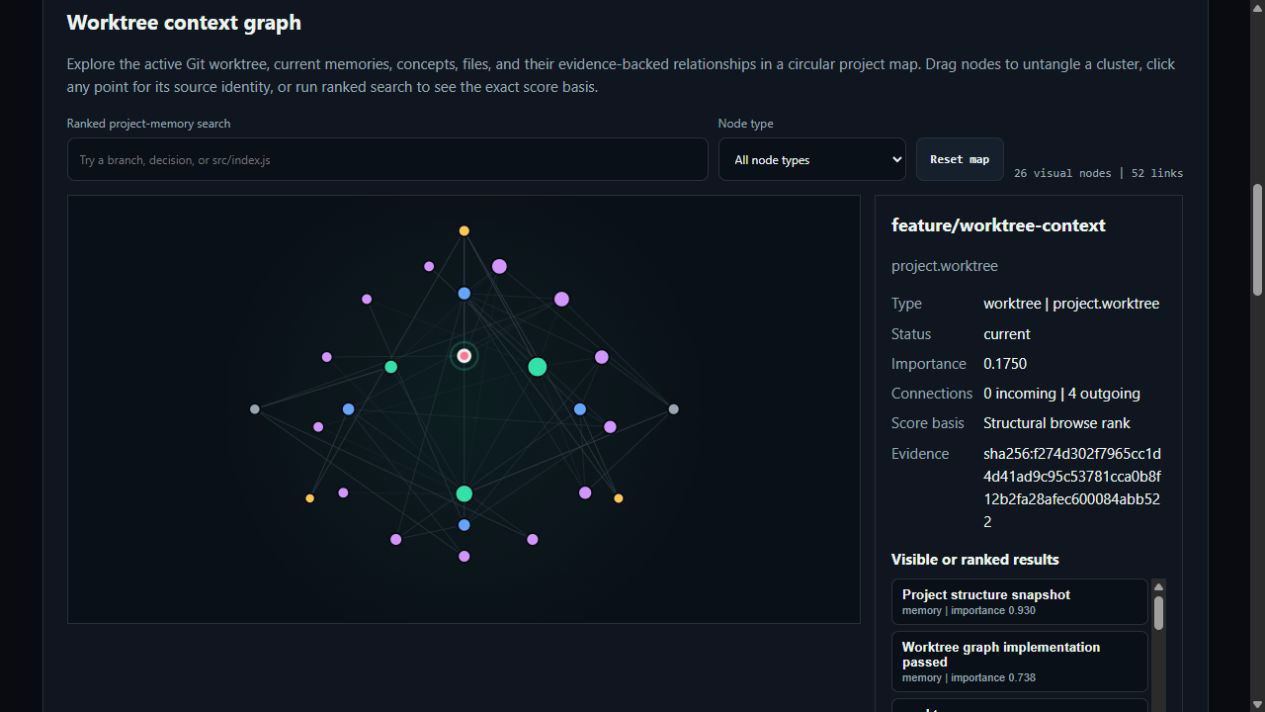
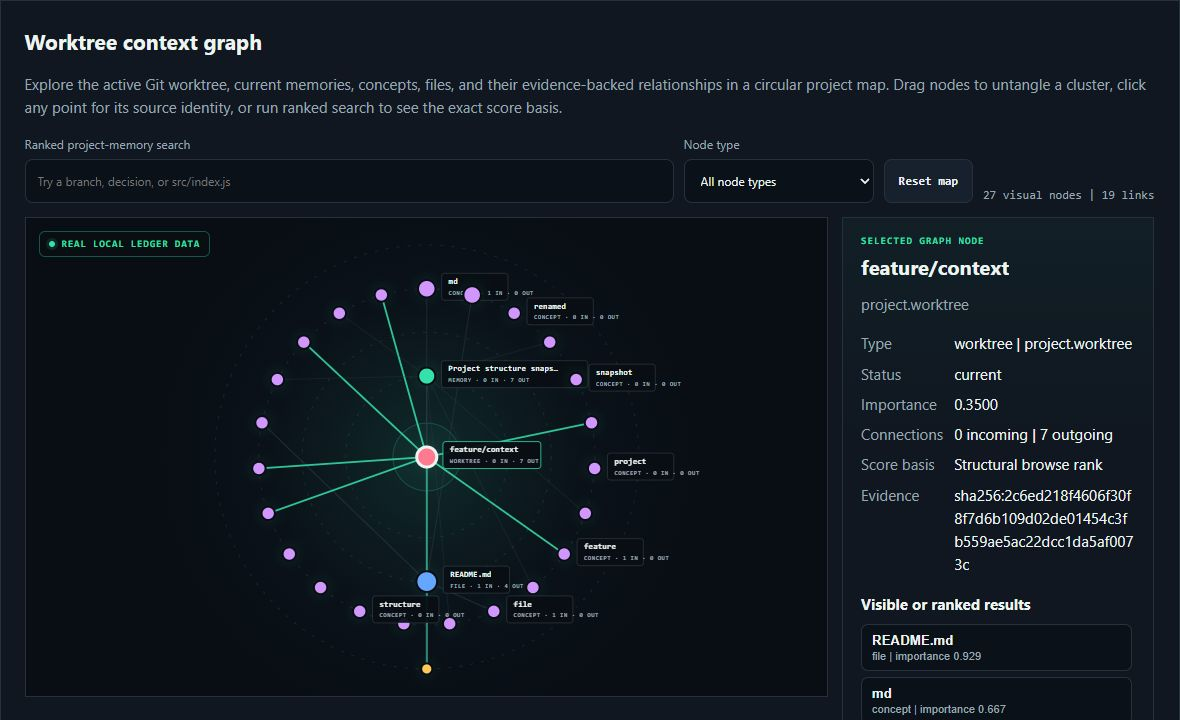
Fix/dashboard graph entry 20260821 (#140)
* fix: open dashboard at interactive graph

* feat: visualize real memory as a circular graph

diff --git a/src/dashboard.js b/src/dashboard.js
@@ -321,10 +321,10 @@ li:first-child{border-top:0}li strong{min-width:0;overflow-wrap:anywhere}li span
 .pager{display:flex;align-items:center;justify-content:flex-end;gap:10px;margin-top:16px}.pager button{min-width:92px;min-height:42px;padding:8px 13px;border:1px solid var(--line);border-radius:8px;color:var(--text);background:#17212d;font:700 13px/1 system-ui,sans-serif;cursor:pointer}.pager button:hover:not(:disabled){border-color:var(--mint);color:var(--mint)}.pager button:focus-visible{outline:2px solid var(--mint);outline-offset:2px}.pager button:disabled{cursor:not-allowed;opacity:.45}.pager output{min-width:92px;color:var(--muted);font:700 12px/1.2 ui-monospace,monospace;text-align:center}
 .empty{margin:0}.warning{color:var(--warn)}[hidden]{display:none!important}
 .project-nav{display:flex;gap:8px;overflow-x:auto;padding:0 0 16px;scrollbar-width:thin}.project-nav a{flex:0 0 auto;min-width:180px;padding:12px 14px;border:1px solid var(--line);border-radius:10px;color:var(--text);text-decoration:none;background:var(--panel)}.project-nav a[aria-current="page"]{border-color:var(--mint)}.project-nav small{display:block;color:var(--muted);font:11px/1.3 ui-monospace,monospace;margin-top:4px}.source-card{display:grid;grid-template-columns:repeat(2,minmax(0,1fr));gap:10px 22px;margin-top:18px;padding:16px;border:1px solid var(--line);background:var(--panel)}.source-card p{margin:0;min-width:0}.source-card strong{display:block;color:var(--text);font-size:12px}.source-card code{overflow-wrap:anywhere}.live-state,.snapshot-state{display:inline-flex;align-items:center;gap:8px;color:var(--mint)}.live-state span{width:9px;height:9px;border-radius:50%;background:var(--mint);box-shadow:0 0 0 4px rgb(53 224 170 / 14%)}
-.graph-toolbar{display:grid;grid-template-columns:minmax(220px,1fr) 190px auto auto;gap:10px;align-items:end;margin-bottom:14px}.graph-toolbar label{display:grid;gap:6px;color:var(--muted);font-size:12px}.graph-toolbar input,.graph-toolbar select{width:100%;min-height:44px;border:1px solid var(--line);border-radius:8px;background:#0b1118;color:var(--text);padding:9px 12px;font:inherit}.graph-toolbar input:focus-visible,.graph-toolbar select:focus-visible{outline:2px solid var(--mint);outline-offset:2px}.graph-reset{min-height:44px;padding:9px 14px;border:1px solid var(--line);border-radius:8px;background:#17212d;color:var(--text);font:700 12px/1 ui-monospace,monospace;cursor:pointer}.graph-reset:hover,.graph-reset:focus-visible{border-color:var(--mint);color:var(--mint);outline:none}.graph-summary{color:var(--muted);font:12px/1.35 ui-monospace,monospace}.graph-shell{display:grid;grid-template-columns:minmax(0,1.8fr) minmax(240px,.7fr);gap:14px}.graph-canvas{display:block;width:100%;height:auto;min-height:420px;border:1px solid var(--line);background:radial-gradient(circle at center,rgb(53 224 170 / 7%),transparent 55%),#0b1118;touch-action:none}.graph-canvas line{stroke:#31404d;stroke-width:1;vector-effect:non-scaling-stroke}.graph-node{cursor:grab}.graph-node[data-dragging="true"]{cursor:grabbing}.graph-node circle{stroke:#090d12;stroke-width:2;vector-effect:non-scaling-stroke}.graph-node .graph-halo{fill:none;stroke:var(--mint);stroke-width:2;opacity:0;pointer-events:none}.graph-node:focus-visible circle,.graph-node[data-selected="true"] .graph-dot{stroke:var(--text);stroke-width:3}.graph-node[data-selected="true"] .graph-halo{opacity:.55;animation:qarinah-graph-pulse 1.8s ease-out infinite}.graph-node[data-conflict="true"] .graph-dot{stroke:var(--warn);stroke-width:3}.graph-details{border:1px solid var(--line);padding:16px;min-width:0}.graph-details h3{margin:0 0 8px;font-size:18px;overflow-wrap:anywhere}.graph-details dl{display:grid;grid-template-columns:auto minmax(0,1fr);gap:7px 11px;margin:14px 0}.graph-details dt{color:var(--muted)}.graph-details dd{margin:0;overflow-wrap:anywhere}.graph-results{display:grid;gap:6px;max-height:235px;overflow:auto;list-style:none;margin:8px 0 0;padding:0 3px 0 0}.graph-results li{display:block;padding:0;border:0}.graph-results button{display:grid;gap:2px;width:100%;padding:8px 10px;border:1px solid var(--line);border-radius:7px;background:#0b1118;color:var(--text);text-align:left;cursor:pointer}.graph-results button:hover,.graph-results button:focus-visible,.graph-results button[data-selected="true"]{border-color:var(--mint);outline:none}.graph-results small{color:var(--muted)}.graph-legend{display:flex;flex-wrap:wrap;gap:10px 16px;margin:10px 0 0;color:var(--muted);font-size:12px}.graph-legend span{display:inline-flex;align-items:center;gap:6px}.graph-legend i{width:10px;height:10px;border-radius:50%;background:var(--legend)}
+.graph-toolbar{display:grid;grid-template-columns:minmax(220px,1fr) 190px auto auto;gap:10px;align-items:end;margin-bottom:14px}.graph-toolbar label{display:grid;gap:6px;color:var(--muted);font-size:12px}.graph-toolbar input,.graph-toolbar select{width:100%;min-height:44px;border:1px solid var(--line);border-radius:8px;background:#0b1118;color:var(--text);padding:9px 12px;font:inherit}.graph-toolbar input:focus-visible,.graph-toolbar select:focus-visible{outline:2px solid var(--mint);outline-offset:2px}.graph-reset{min-height:44px;padding:9px 14px;border:1px solid var(--line);border-radius:8px;background:#17212d;color:var(--text);font:700 12px/1 ui-monospace,monospace;cursor:pointer}.graph-reset:hover,.graph-reset:focus-visible{border-color:var(--mint);color:var(--mint);outline:none}.graph-summary{color:var(--muted);font:12px/1.35 ui-monospace,monospace}.graph-shell{display:grid;grid-template-columns:minmax(0,1.8fr) minmax(250px,.7fr);gap:14px}.graph-stage{position:relative;min-width:0}.graph-live-badge{position:absolute;z-index:1;top:14px;left:14px;display:inline-flex;align-items:center;gap:7px;padding:7px 9px;border:1px solid rgb(53 224 170 / 35%);border-radius:6px;background:rgb(8 14 18 / 88%);color:var(--mint);font:700 10px/1 ui-monospace,monospace;letter-spacing:.08em;text-transform:uppercase;pointer-events:none}.graph-live-badge::before{content:"";width:6px;height:6px;border-radius:50%;background:var(--mint);box-shadow:0 0 0 3px rgb(53 224 170 / 12%)}.graph-canvas{display:block;width:100%;height:auto;min-height:480px;border:1px solid var(--line);background:radial-gradient(circle at center,rgb(53 224 170 / 10%),transparent 34%),radial-gradient(circle at center,rgb(101 167 255 / 4%),transparent 62%),#080e14;touch-action:none}.graph-orbit{fill:none;stroke:rgb(154 167 178 / 13%);stroke-width:1;stroke-dasharray:3 8;vector-effect:non-scaling-stroke}.graph-orbit-core{fill:rgb(53 224 170 / 3%);stroke:rgb(53 224 170 / 22%);stroke-dasharray:none}.graph-edge{stroke:#31404d;stroke-width:1;vector-effect:non-scaling-stroke;transition:stroke 180ms ease,opacity 180ms ease,stroke-width 180ms ease}.graph-edge[data-active="true"]{stroke:var(--mint);stroke-width:1.8;opacity:.86!important}.graph-node{cursor:grab;outline:none}.graph-node[data-dragging="true"]{cursor:grabbing}.graph-node circle{stroke:#090d12;stroke-width:2;vector-effect:non-scaling-stroke}.graph-node .graph-dot{filter:drop-shadow(0 0 8px rgb(53 224 170 / 14%));transition:r 180ms ease,stroke 180ms ease}.graph-node .graph-halo{fill:none;stroke:var(--mint);stroke-width:2;opacity:0;pointer-events:none}.graph-node:focus-visible .graph-dot,.graph-node:hover .graph-dot,.graph-node[data-selected="true"] .graph-dot{stroke:var(--text);stroke-width:3}.graph-node:hover .graph-dot{r:12px}.graph-node[data-selected="true"] .graph-halo{opacity:.55;animation:qarinah-graph-pulse 1.8s ease-out infinite}.graph-node[data-conflict="true"] .graph-dot{stroke:var(--warn);stroke-width:3}.graph-node-label{opacity:0;pointer-events:none;transition:opacity 180ms ease}.graph-node-label rect{fill:rgb(8 14 20 / 94%);stroke:rgb(154 167 178 / 24%);stroke-width:1;rx:4}.graph-node-label text{fill:var(--text);font:700 11px/1 ui-monospace,monospace;letter-spacing:-.01em}.graph-node-label .graph-node-meta{fill:var(--muted);font-size:8px;letter-spacing:.08em;text-transform:uppercase}.graph-node[data-labeled="true"] .graph-node-label,.graph-node:hover .graph-node-label,.graph-node:focus-visible .graph-node-label,.graph-node[data-selected="true"] .graph-node-label{opacity:1}.graph-node[data-selected="true"] .graph-node-label rect{stroke:var(--mint)}.graph-details{border:1px solid var(--line);padding:18px;min-width:0;background:linear-gradient(180deg,rgb(53 224 170 / 4%),transparent 34%)}.graph-details-kicker{display:block;margin-bottom:10px;color:var(--mint);font:700 10px/1 ui-monospace,monospace;letter-spacing:.1em;text-transform:uppercase}.graph-details h3{margin:0 0 8px;font-size:20px;line-height:1.1;overflow-wrap:anywhere}.graph-details dl{display:grid;grid-template-columns:auto minmax(0,1fr);gap:7px 11px;margin:16px 0}.graph-details dt{color:var(--muted)}.graph-details dd{margin:0;overflow-wrap:anywhere;font-variant-numeric:tabular-nums}.graph-results{display:grid;gap:6px;max-height:235px;overflow:auto;list-style:none;margin:8px 0 0;padding:0 3px 0 0}.graph-results li{display:block;padding:0;border:0}.graph-results button{display:grid;gap:2px;width:100%;padding:8px 10px;border:1px solid var(--line);border-radius:7px;background:#0b1118;color:var(--text);text-align:left;cursor:pointer}.graph-results button:hover,.graph-results button:focus-visible,.graph-results button[data-selected="true"]{border-color:var(--mint);outline:none}.graph-results small{color:var(--muted)}.graph-legend{display:flex;flex-wrap:wrap;gap:10px 16px;margin:12px 0 0;color:var(--muted);font-size:12px}.graph-legend span{display:inline-flex;align-items:center;gap:6px}.graph-legend i{width:10px;height:10px;border-radius:50%;background:var(--legend);box-shadow:0 0 10px color-mix(in srgb,var(--legend),transparent 55%)}
 @keyframes qarinah-graph-pulse{0%{r:10px;opacity:.55}100%{r:25px;opacity:0}}
 @media(max-width:760px){header,main{width:min(100% - 20px,1180px)}header{padding:36px 0 22px}h1{font-size:clamp(34px,12vw,54px)}.metrics{grid-template-columns:repeat(2,minmax(0,1fr))}.metric{min-width:0;padding:17px}.metric strong{font-size:24px;overflow-wrap:anywhere}main{padding-top:18px}.grid{grid-template-columns:1fr;gap:12px}section,section.wide{grid-column:auto;padding:18px}li{grid-template-columns:1fr}.record-head{display:block}.record-head time{display:block;margin-top:4px}.table-scroll table{min-width:620px}.pager{justify-content:space-between}.pager button{min-width:84px}}
-@media(max-width:900px){.graph-toolbar{grid-template-columns:minmax(0,1fr) minmax(0,1fr)}.graph-summary{grid-column:1/-1}.graph-shell{grid-template-columns:1fr}.graph-canvas{min-height:330px}.graph-details{display:grid;grid-template-columns:minmax(0,1fr) minmax(0,1fr);gap:14px}.graph-details h3,.graph-details>p{grid-column:1/-1}}
+@media(max-width:900px){.graph-toolbar{grid-template-columns:minmax(0,1fr) minmax(0,1fr)}.graph-summary{grid-column:1/-1}.graph-shell{grid-template-columns:1fr}.graph-canvas{min-height:360px}.graph-details{display:grid;grid-template-columns:minmax(0,1fr) minmax(0,1fr);gap:14px}.graph-details h3,.graph-details>p{grid-column:1/-1}}
 @media(max-width:600px){.source-card{grid-template-columns:1fr}.project-nav a{min-width:155px}.graph-toolbar{grid-template-columns:1fr}.graph-summary{grid-column:1}.graph-shell,.graph-details{display:block}.graph-canvas{min-height:270px}.graph-results{margin-top:14px}}
 @media(max-width:420px){.metrics{grid-template-columns:1fr}.pager{display:grid;grid-template-columns:1fr 1fr}.pager output{grid-column:1/-1;grid-row:1;min-width:0}.pager button{width:100%}}
 @media(prefers-reduced-motion:reduce){*{scroll-behavior:auto!important}.graph-node[data-selected="true"] .graph-halo{animation:none}}
@@ -355,7 +355,7 @@ li:first-child{border-top:0}li strong{min-width:0;overflow-wrap:anywhere}li span
 ${worktreeComparison}
 <section class="wide"><h2>Worktree context graph</h2><p>Explore the active Git worktree, current memories, concepts, files, and their evidence-backed relationships in a circular project map. Drag nodes to untangle a cluster, click any point for its source identity, or run ranked search to see the exact score basis.</p>
 <div class="graph-toolbar"><label>Ranked project-memory search<input type="search" data-graph-search data-search-path="${escapeHtml(options.searchPath ?? "")}" maxlength="256" placeholder="Try a branch, decision, or src/index.js"></label><label>Node type<select data-graph-type><option value="all">All node types</option><option value="worktree">Git worktrees</option><option value="memory">Memories</option><option value="file">Files</option><option value="concept">Concepts</option><option value="directory">Directories</option><option value="reference">References</option></select></label><button class="graph-reset" type="button" data-graph-reset>Reset map</button><output class="graph-summary" data-graph-summary aria-live="polite"></output></div>
-<div class="graph-shell"><svg class="graph-canvas" data-linked-graph viewBox="0 0 1040 560" role="img" aria-label="Interactive linked project-memory graph"><g data-graph-edges></g><g data-graph-nodes></g></svg><aside class="graph-details" aria-live="polite"><div><h3 data-graph-title>Choose a node</h3><p data-graph-description>Click a point or a result to inspect its type, rank, connections, and evidence identity.</p><dl><dt>Type</dt><dd data-graph-detail="type">-</dd><dt>Status</dt><dd data-graph-detail="status">-</dd><dt>Importance</dt><dd data-graph-detail="importance">-</dd><dt>Connections</dt><dd data-graph-detail="connections">-</dd><dt>Score basis</dt><dd data-graph-detail="basis">Browse rank</dd><dt>Evidence</dt><dd data-graph-detail="evidence">-</dd></dl></div><div><strong>Visible or ranked results</strong><ol class="graph-results" data-graph-results aria-label="Linked project-memory results"></ol></div></aside></div>
+<div class="graph-shell"><div class="graph-stage"><span class="graph-live-badge">Real local ledger data</span><svg class="graph-canvas" data-linked-graph viewBox="0 0 1040 620" role="img" aria-label="Interactive circular project-memory graph"><g data-graph-orbits></g><g data-graph-edges></g><g data-graph-nodes></g></svg></div><aside class="graph-details" aria-live="polite"><div><span class="graph-details-kicker">Selected graph node</span><h3 data-graph-title>Choose a node</h3><p data-graph-description>Click a labeled node or a result to inspect its real retained data, rank, connections, and evidence identity.</p><dl><dt>Type</dt><dd data-graph-detail="type">-</dd><dt>Status</dt><dd data-graph-detail="status">-</dd><dt>Importance</dt><dd data-graph-detail="importance">-</dd><dt>Connections</dt><dd data-graph-detail="connections">-</dd><dt>Score basis</dt><dd data-graph-detail="basis">Browse rank</dd><dt>Evidence</dt><dd data-graph-detail="evidence">-</dd></dl></div><div><strong>Visible or ranked results</strong><ol class="graph-results" data-graph-results aria-label="Linked project-memory results"></ol></div></aside></div>
 <div class="graph-legend"><span><i style="--legend:#ff7a90"></i>Git worktree</span><span><i style="--legend:#35e0aa"></i>Memory</span><span><i style="--legend:#65a7ff"></i>File</span><span><i style="--legend:#d197ff"></i>Concept</span><span><i style="--legend:#ffc857"></i>Directory</span><span><i style="--legend:#9aa7b2"></i>Reference</span></div>
 <p><small>Showing ${data.linkedGraph.nodes.length.toLocaleString()} selected nodes and ${data.linkedGraph.edges.length.toLocaleString()} relationships from ${data.linkedGraph.statistics.nodes.toLocaleString()} admitted source-projection nodes; ${data.linkedGraph.statistics.rankedCandidates.toLocaleString()} top-ranked candidates were evaluated. Source manifest: <code>${escapeHtml(data.linkedGraph.manifestHash)}</code></small></p></section>
 <section><h2>Current decisions and reasons</h2>${decisionList(data.currentDecisions,"No current decisions recorded.",{ id:"current-decisions",label:"Current decisions" })}</section>
@@ -380,6 +380,7 @@ ${data.contextSavings.status === "measured" ? `<tr><th>Estimated reduction</th><
 const qarinahGraph=JSON.parse(document.getElementById("qarinah-linked-graph").textContent);
 const qarinahWorktreeProjects=JSON.parse(document.getElementById("qarinah-worktree-projects").textContent);
 const qarinahGraphSvg=document.querySelector("[data-linked-graph]");
+const qarinahGraphOrbits=document.querySelector("[data-graph-orbits]");
 const qarinahGraphEdges=document.querySelector("[data-graph-edges]");
 const qarinahGraphNodes=document.querySelector("[data-graph-nodes]");
 const qarinahGraphSearch=document.querySelector("[data-graph-search]");
@@ -409,6 +410,7 @@ const qarinahShowNode=(node,basis=null,score=null)=>{
     : "Structural browse rank";
   document.querySelector('[data-graph-detail="evidence"]').textContent=node.evidenceHash??node.contentHash??"Derived concept; inspect linked sources";
   document.querySelectorAll(".graph-node,.graph-results button").forEach((entry)=>{entry.dataset.selected=String(entry.dataset.nodeId===node.id)});
+  document.querySelectorAll(".graph-edge").forEach((entry)=>{entry.dataset.active=String(entry.dataset.source===node.id||entry.dataset.target===node.id)});
 };
 const qarinahRenderButtons=(entries,ranked=false)=>{
   qarinahGraphResults.textContent="";
@@ -440,15 +442,24 @@ const qarinahRenderGraph=()=>{
   const visibleIds=new Set(visible.map((node)=>node.id));
   const types=["worktree","memory","file","concept","directory","reference"].filter((candidate)=>visible.some((node)=>node.type===candidate));
   const positions=new Map();
-  const center={x:520,y:280};
-  types.forEach((candidate,ring)=>{const group=visible.filter((node)=>node.type===candidate);const radius=group.length===1&&types.length===1?0:70+ring*(205/Math.max(1,types.length-1));const offset=(ring%2)*Math.PI/Math.max(1,group.length);group.forEach((node,index)=>{const angle=-Math.PI/2+offset+(Math.PI*2*index/Math.max(1,group.length));const natural={x:Math.max(22,Math.min(1018,center.x+Math.cos(angle)*radius)),y:Math.max(22,Math.min(538,center.y+Math.sin(angle)*radius))};positions.set(node.id,qarinahPositionOverrides.get(node.id)??natural)})});
+  const center={x:520,y:310};
+  const anchor=visible.find((node)=>node.type==="worktree")??visible.find((node)=>node.type==="memory")??visible[0];
+  const orbitTypes=types.filter((candidate)=>visible.some((node)=>node.type===candidate&&node.id!==anchor?.id));
+  const orbitRadii=orbitTypes.map((candidate,index)=>orbitTypes.length===1?180:105+index*(170/Math.max(1,orbitTypes.length-1)));
+  if(anchor)positions.set(anchor.id,qarinahPositionOverrides.get(anchor.id)??center);
+  orbitTypes.forEach((candidate,ring)=>{const group=visible.filter((node)=>node.type===candidate&&node.id!==anchor?.id);const radius=orbitRadii[ring];const offset=(ring%2)*Math.PI/Math.max(1,group.length);group.forEach((node,index)=>{const angle=-Math.PI/2+offset+(Math.PI*2*index/Math.max(1,group.length));const natural={x:Math.max(34,Math.min(1006,center.x+Math.cos(angle)*radius)),y:Math.max(34,Math.min(586,center.y+Math.sin(angle)*radius))};positions.set(node.id,qarinahPositionOverrides.get(node.id)??natural)})});
+  qarinahGraphOrbits.textContent="";
+  const core=qarinahSvgElement("circle");core.classList.add("graph-orbit","graph-orbit-core");core.setAttribute("cx",center.x);core.setAttribute("cy",center.y);core.setAttribute("r","44");qarinahGraphOrbits.append(core);
+  for(const radius of orbitRadii){const orbit=qarinahSvgElement("circle");orbit.classList.add("graph-orbit");orbit.setAttribute("cx",center.x);orbit.setAttribute("cy",center.y);orbit.setAttribute("r",String(radius));qarinahGraphOrbits.append(orbit)}
   qarinahGraphEdges.textContent="";
-  for(const edge of qarinahGraph.edges){const source=positions.get(edge.source),target=positions.get(edge.target);if(!source||!target)continue;const line=qarinahSvgElement("line");line.dataset.source=edge.source;line.dataset.target=edge.target;line.setAttribute("x1",source.x);line.setAttribute("y1",source.y);line.setAttribute("x2",target.x);line.setAttribute("y2",target.y);line.setAttribute("opacity",String(Math.max(.18,Math.min(.82,edge.weight))));const title=qarinahSvgElement("title");title.textContent=edge.type;line.append(title);qarinahGraphEdges.append(line)}
+  for(const edge of qarinahGraph.edges){const source=positions.get(edge.source),target=positions.get(edge.target);if(!source||!target)continue;const line=qarinahSvgElement("line");line.classList.add("graph-edge");line.dataset.source=edge.source;line.dataset.target=edge.target;line.dataset.active="false";line.setAttribute("x1",source.x);line.setAttribute("y1",source.y);line.setAttribute("x2",target.x);line.setAttribute("y2",target.y);line.setAttribute("opacity",String(Math.max(.16,Math.min(.72,edge.weight))));const title=qarinahSvgElement("title");title.textContent=edge.type;line.append(title);qarinahGraphEdges.append(line)}
   qarinahGraphNodes.textContent="";
-  for(const node of visible){const point=positions.get(node.id);const group=qarinahSvgElement("g");group.classList.add("graph-node");group.dataset.nodeId=node.id;group.dataset.conflict=String(node.conflicted);group.dataset.selected=String(node.id===qarinahSelectedNode);group.dataset.dragging="false";group.setAttribute("transform","translate("+point.x+" "+point.y+")");group.setAttribute("tabindex","0");group.setAttribute("role","button");group.setAttribute("aria-label",node.type+": "+node.label+". Drag to move; press Enter for details.");const halo=qarinahSvgElement("circle");halo.classList.add("graph-halo");halo.setAttribute("r","10");const circle=qarinahSvgElement("circle");circle.classList.add("graph-dot");circle.setAttribute("r",String(6+node.importance*8));circle.setAttribute("fill",qarinahGraphColors[node.type]);const title=qarinahSvgElement("title");title.textContent=node.label+" | "+node.type;group.append(halo,circle,title);const activate=()=>qarinahShowNode(node);group.addEventListener("pointerdown",(event)=>{if(event.button!==0)return;group.dataset.dragging="true";qarinahActiveDrag={node,group,positions,pointerId:event.pointerId};qarinahGraphSvg.setPointerCapture(event.pointerId);activate();event.preventDefault()});group.addEventListener("click",activate);group.addEventListener("keydown",(event)=>{if(event.key==="Enter"||event.key===" "){event.preventDefault();activate()}});qarinahGraphNodes.append(group)}
+  const alwaysLabeled=new Set(anchor?[anchor.id]:[]);const labeledPoints=anchor?[positions.get(anchor.id)]:[];for(const node of visible){if(alwaysLabeled.size>=10)break;if(node.id===anchor?.id)continue;const point=positions.get(node.id);if(labeledPoints.every((labeled)=>Math.hypot(point.x-labeled.x,point.y-labeled.y)>=92)){alwaysLabeled.add(node.id);labeledPoints.push(point)}}
+  for(const node of visible){const point=positions.get(node.id);const group=qarinahSvgElement("g");group.classList.add("graph-node");group.dataset.nodeId=node.id;group.dataset.conflict=String(node.conflicted);group.dataset.selected=String(node.id===qarinahSelectedNode);group.dataset.labeled=String(alwaysLabeled.has(node.id));group.dataset.dragging="false";group.setAttribute("transform","translate("+point.x+" "+point.y+")");group.setAttribute("tabindex","0");group.setAttribute("role","button");group.setAttribute("aria-label",node.type+": "+node.label+". Drag to move; press Enter for details.");const halo=qarinahSvgElement("circle");halo.classList.add("graph-halo");halo.setAttribute("r","10");const circle=qarinahSvgElement("circle");circle.classList.add("graph-dot");const nodeRadius=anchor?.id===node.id?13:6+node.importance*8;circle.setAttribute("r",String(nodeRadius));circle.setAttribute("fill",qarinahGraphColors[node.type]);const title=qarinahSvgElement("title");title.textContent=node.label+" | "+node.type+" | importance "+node.importance.toFixed(4);const label=qarinahSvgElement("g");label.classList.add("graph-node-label");const clipped=node.label.length>24?node.label.slice(0,23)+"…":node.label;const labelWidth=Math.min(210,Math.max(86,22+clipped.length*7));const labelLeft=point.x>760?-labelWidth-nodeRadius-8:nodeRadius+8;const background=qarinahSvgElement("rect");background.setAttribute("x",String(labelLeft));background.setAttribute("y","-20");background.setAttribute("width",String(labelWidth));background.setAttribute("height","35");const labelText=qarinahSvgElement("text");labelText.setAttribute("x",String(labelLeft+9));labelText.setAttribute("y","-6");labelText.textContent=clipped;const labelMeta=qarinahSvgElement("text");labelMeta.classList.add("graph-node-meta");labelMeta.setAttribute("x",String(labelLeft+9));labelMeta.setAttribute("y","8");labelMeta.textContent=node.type+" · "+node.incoming+" in · "+node.outgoing+" out";label.append(background,labelText,labelMeta);group.append(halo,circle,label,title);const activate=()=>qarinahShowNode(node);group.addEventListener("pointerdown",(event)=>{if(event.button!==0)return;group.dataset.dragging="true";qarinahActiveDrag={node,group,positions,pointerId:event.pointerId};qarinahGraphSvg.setPointerCapture(event.pointerId);activate();event.preventDefault()});group.addEventListener("click",activate);group.addEventListener("keydown",(event)=>{if(event.key==="Enter"||event.key===" "){event.preventDefault();activate()}});qarinahGraphNodes.append(group)}
   qarinahRenderButtons(visible);
   qarinahGraphSummary.textContent=visible.length+" visual nodes | "+qarinahGraph.edges.filter((edge)=>visibleIds.has(edge.source)&&visibleIds.has(edge.target)).length+" links";
   if(qarinahSelectedNode&&visibleIds.has(qarinahSelectedNode))qarinahShowNode(qarinahGraphNodeById.get(qarinahSelectedNode));
+  else if(anchor)qarinahShowNode(anchor);
 };
 let qarinahSearchVersion=0;
 const qarinahRunRankedSearch=async()=>{

diff --git a/test/dashboard-live.test.js b/test/dashboard-live.test.js
@@ -36,7 +36,10 @@ test("a single-project dashboard opens the interactive project view directly", a
 
   const projectPage = await fetch(live.url).then((response) => response.text());
   assert.match(projectPage, /Worktree context graph/u);
-  assert.match(projectPage, /Interactive linked project-memory graph/u);
+  assert.match(projectPage, /Interactive circular project-memory graph/u);
+  assert.match(projectPage, /Real local ledger data/u);
+  assert.match(projectPage, /data-graph-orbits/u);
+  assert.match(projectPage, /graph-node-label/u);
   assert.match(projectPage, /Ranked project-memory search/u);
 });
 

diff --git a/test/visible-memory.test.js b/test/visible-memory.test.js
@@ -114,7 +114,8 @@ test("developer view joins graph, timeline, decisions, tools, receipts, and work
   const html = renderMemoryDashboard(dashboard);
   assert.match(html, /Exact per-session context receipts/u);
   assert.match(html, /session-panel/u);
-  assert.match(html, /Interactive linked project-memory graph/u);
+  assert.match(html, /Interactive circular project-memory graph/u);
+  assert.match(html, /Real local ledger data/u);
 });
 
 test("session receipt schema is closed and exposes only bounded measurement fields", async () => {

diff --git a/assets/launch/README.md b/assets/launch/README.md
@@ -10,6 +10,7 @@ The SVG files are the editable source of truth. Matching PNG files are exact-siz
 | `qarinah-product-hunt-02-retrieval` | 1270 x 760 | Retrieval and citation explanation |
 | `qarinah-product-hunt-03-boundary` | 1270 x 760 | Consent, host, and privacy boundary |
 | `qarinah-project-memory-dashboard.png` | 1440 x 900 | Real generated local dashboard proof for README, website, LinkedIn, X, DEV, Medium, and launch listings |
+| `qarinah-worktree-context-graph.png` | 1180 x 720 | Real circular graph capture from two initialized Git worktrees for the website and worktree article |
 
 Do not remove the benchmark scope from the first gallery asset, label estimated values as provider billing, or add fictional product UI. Re-export from the SVG originals and inspect every image at its native dimensions before publication.
 

diff --git a/docs/launch/WORKTREE-CONTEXT-POSTS.md b/docs/launch/WORKTREE-CONTEXT-POSTS.md
@@ -1,6 +1,6 @@
 # Worktree context launch drafts
 
-Use `assets/launch/qarinah-worktree-context-graph.png`. It is a real capture from two initialized Git worktrees in one temporary demo repository. The selected feature-worktree node exposes its graph type, status, structural rank, connections, and source event hash.
+Use `assets/launch/qarinah-worktree-context-graph.png`. It is a real capture from two initialized Git worktrees in one temporary demo repository. The selected `feature/context` node anchors a circular evidence graph and exposes its graph type, status, structural rank, connections, and source event hash.
 
 ## Product Hunt update
 
